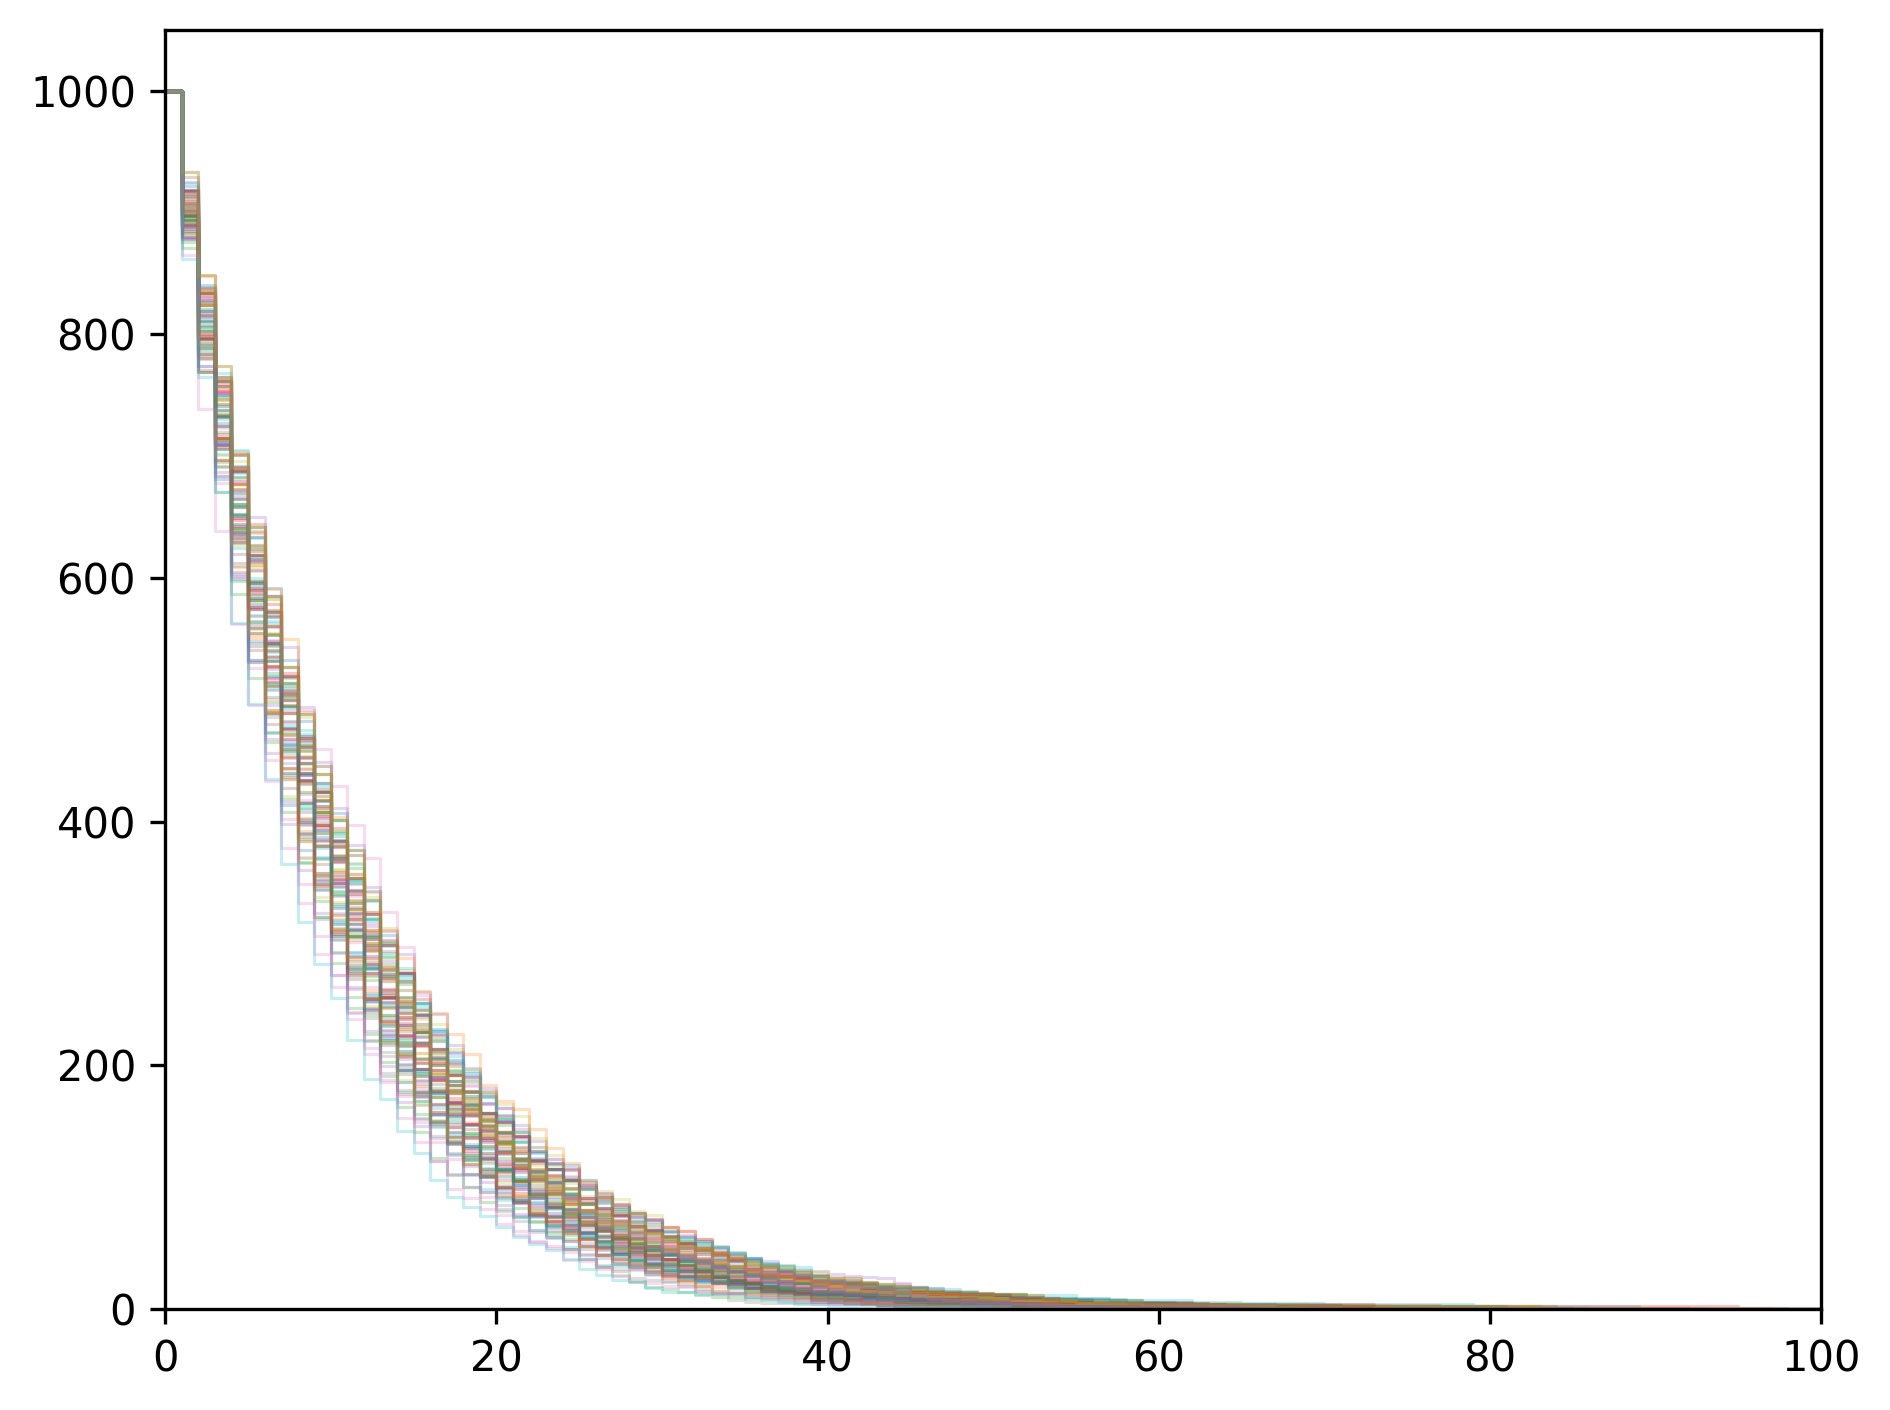
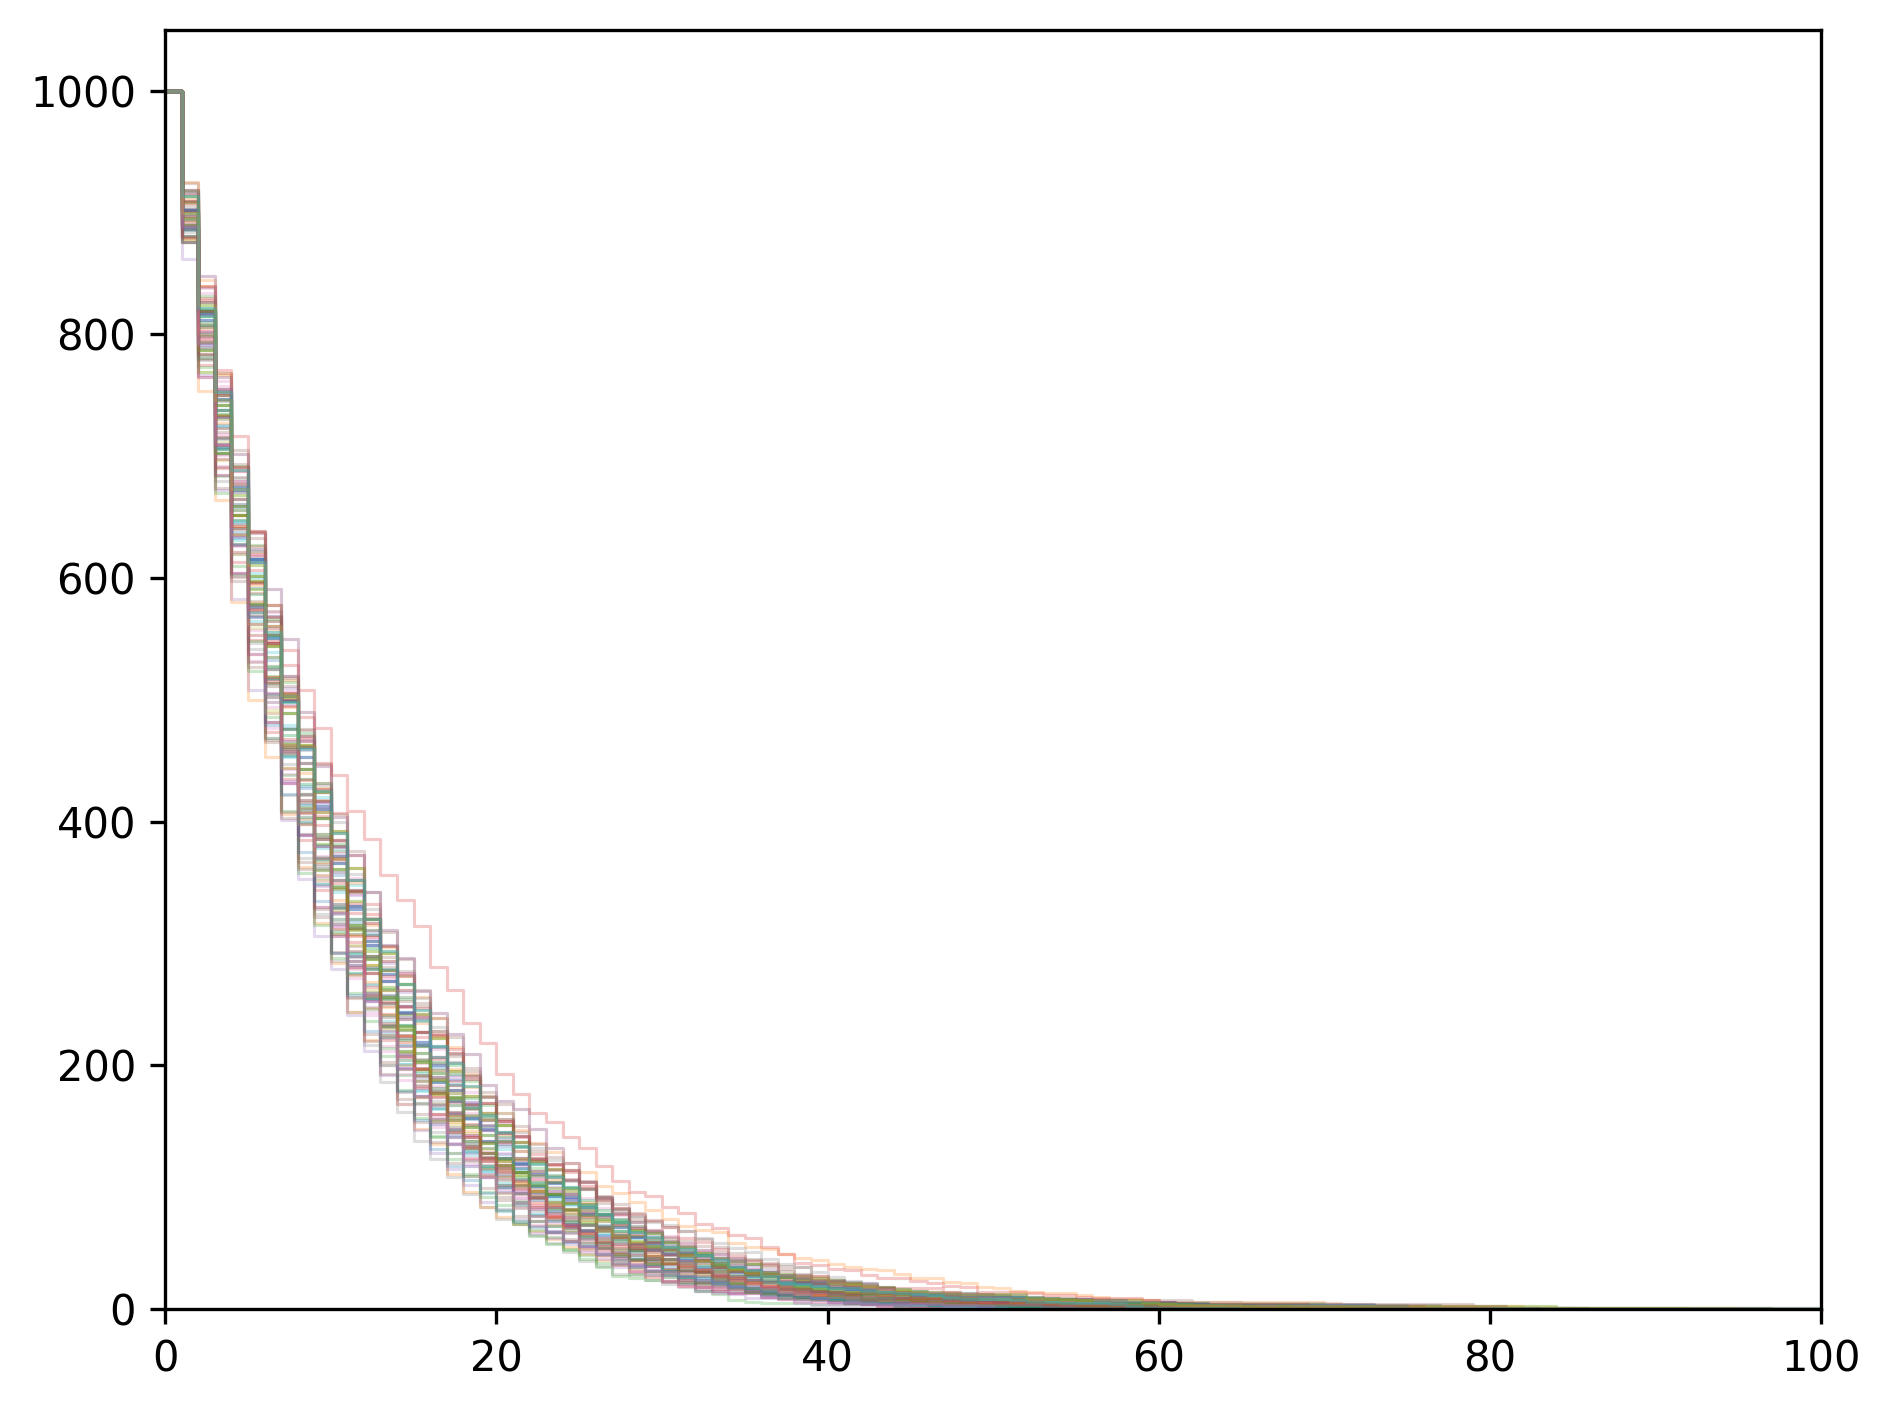
rng

Changed region(s): [[0.0937, 0.1248, 0.718, 0.9362]]

diff --git a/CalibrationClasses.py b/CalibrationClasses.py
@@ -124,9 +124,12 @@ class CalibratedModel:
         :param cohort_size: the population size of cohorts
         :param time_steps: simulation length
         """
+
+        rng = RandomState(1)
+
         # resample cohort IDs and mortality probabilities based on their likelihood weights
         # sample (with replacement) from indices [0, 1, 2, ..., number of weights] based on the likelihood weights
-        sampled_row_indices = np.random.choice(
+        sampled_row_indices = rng.choice(
             a=range(0, len(self.weights)),
             size=num_of_simulated_cohorts,
             replace=True,
